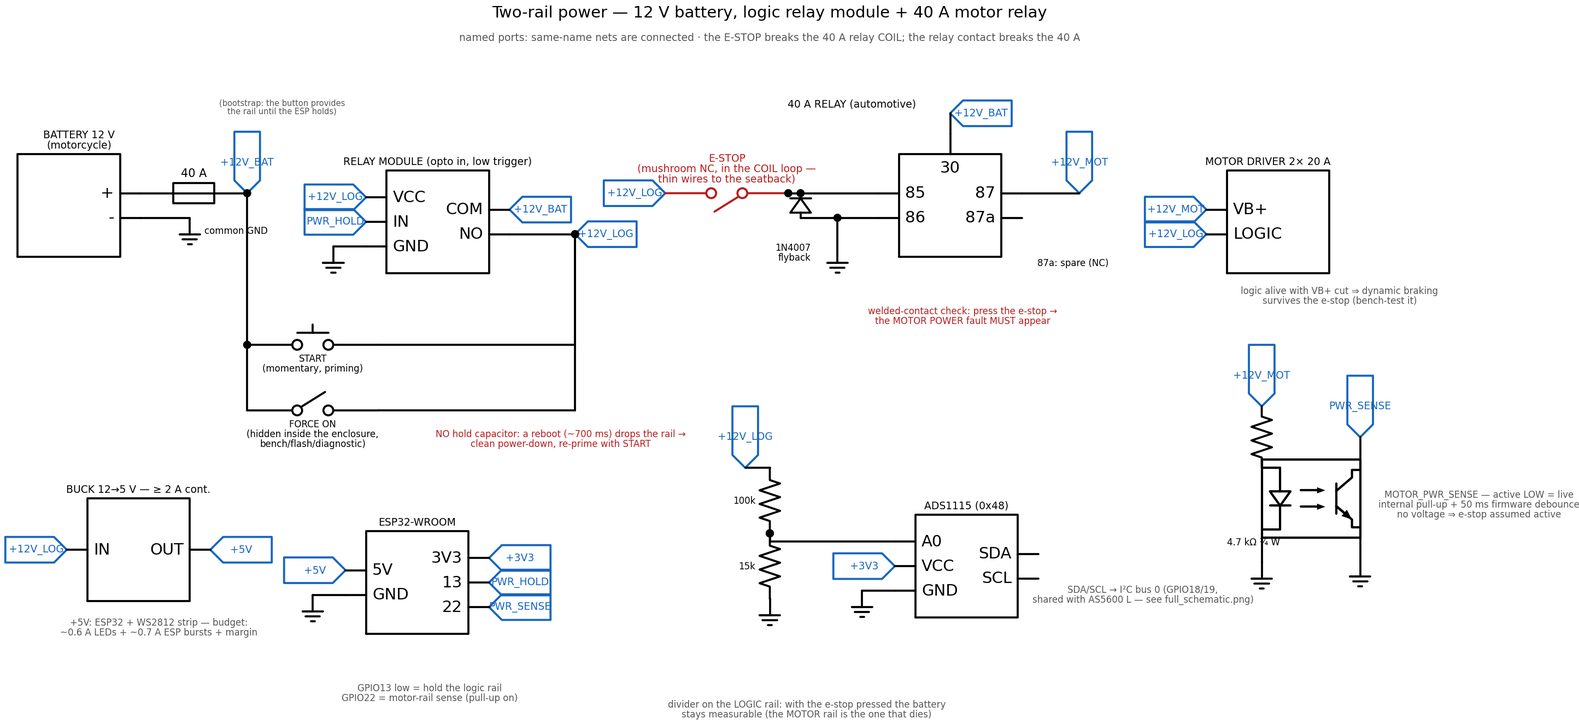
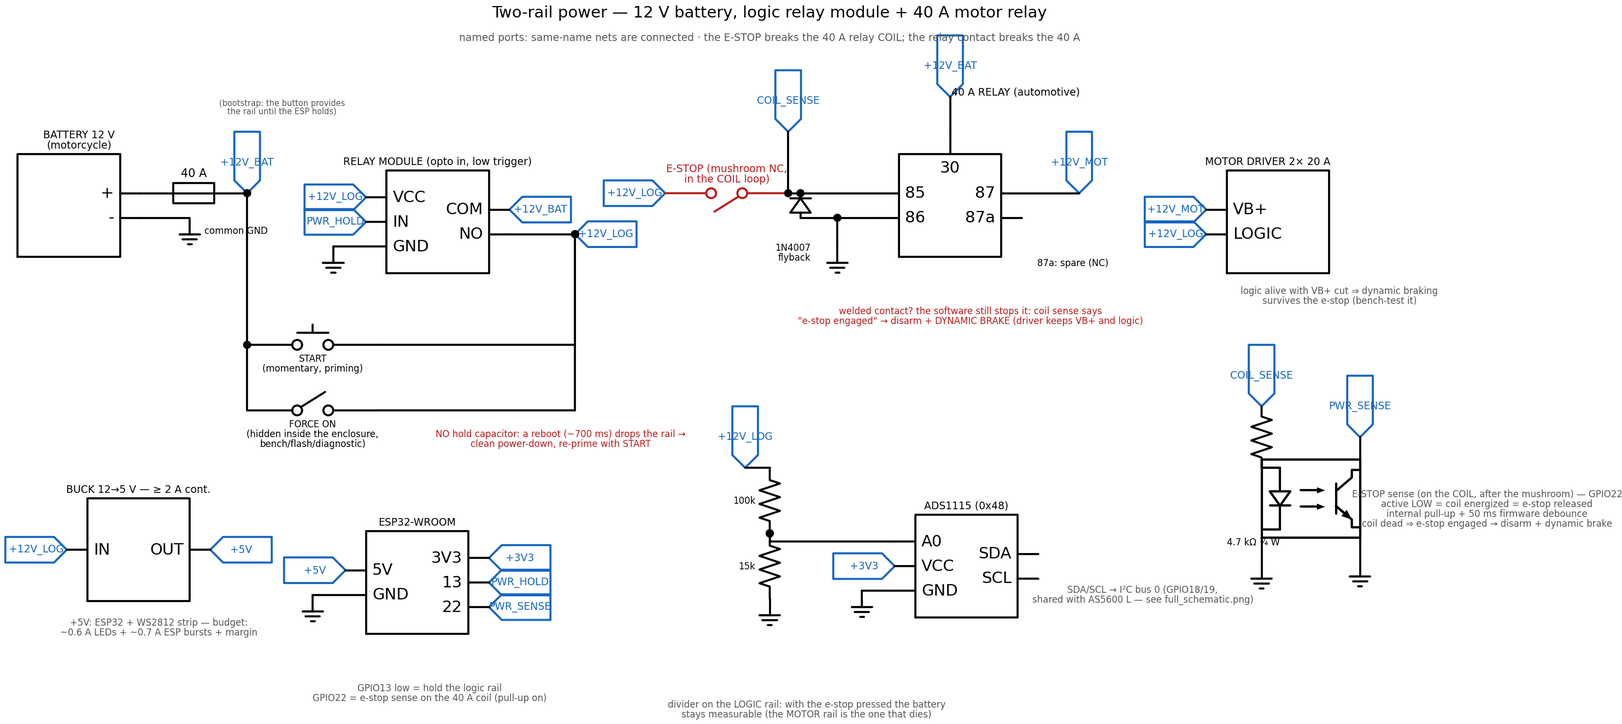
E-stop sense reads the COIL — a welded contact can no longer defeat the stop
'tu penses que la détection devrait plutôt être sur l'alimentation de la
bobine? de cette manière si le relais reste collé au moins le soft peut
détecter le problème et activer le frein dynamique' — yes, and the owner
chose that over the dual-opto variant after seeing the truth table. The
sense opto moves from the relay OUTPUT to the COIL node (pin 85, after the
mushroom): pressing the e-stop is now detected as the COMMAND itself, so the
firmware disarms and dynamic-brakes even when the relay contact is welded
closed — and the brake bites precisely because VB+ survives in that failure.

Stated honestly everywhere it was previously claimed otherwise: with the
coil-side sense, WELDING ITSELF BECOMES UNDETECTABLE (the pre-drive e-stop
test now verifies the sense chain, not the contact), and a relay that fails
to CLOSE is caught by the wheel-stuck net rather than this one. Decision log
carries the trade; the fault text on the page becomes 'Emergency stop
engaged (coil sense)'.

Also asked and now answered in the chapter: does gentler motor drive reduce
welding? No — welding happens at CLOSING, and this design always closes the
relay with the kart disarmed and motors off, so the make-current is the
driver's capacitor inrush regardless of driving style (the fix, if ever
needed, is a pre-charge resistor). Softer mixing reduces contact EROSION
when the e-stop opens the relay under load — up to ~40 A at 12 VDC, inside
[…]

diff --git a/firmware/main/assets/index.html b/firmware/main/assets/index.html
@@ -175,7 +175,7 @@
    <tr><td>27 / 14</td><td>I²C bus 1 (SDA/SCL) — AS5600 right wheel (0x36)</td><td>I/O</td></tr>
    <tr><td>16</td><td>Arming button (START)</td><td>input (pull-up)</td></tr>
    <tr><td>13</td><td>POWER_HOLD (power latch, active low)</td><td>output</td></tr>
-   <tr><td>22</td><td>Motor-power sense (opto on the 40 A relay output; active LOW = live; 50 ms debounce; enable with pwr_sense_en)</td><td>input (pull-up)</td></tr>
+   <tr><td>22</td><td>E-stop sense (opto on the 40 A relay COIL, after the mushroom; active LOW = coil energized; 50 ms debounce; enable with pwr_sense_en)</td><td>input (pull-up)</td></tr>
    <tr><td>4</td><td>WS2812B LED strip (data)</td><td>output</td></tr>
    <tr><td>2</td><td>Status LED (onboard)</td><td>output</td></tr>
    <tr><th colspan="3">External ADS1115 ADC (I²C bus 0, 3.3 V)</th></tr>
@@ -822,7 +822,7 @@ const FAULTS_DESC=[
  {b:10,t:'Stalled gamepad (heartbeat)',          d:'Bluetooth link "connected" but no report received for more than 750 ms: communication lost. Immediate disarm and braking.', grave:true, z:['pad']},
  {b:7, t:'Encoder: erratic reading',             d:'Measured speed physically impossible for the kart. Faulty sensor or magnet. FULL STOP, locked until reboot.', grave:true, z:['wl','wr']},
  {b:11,t:'LEFT encoder: magnet out of range',    d:'The left AS5600 responds but its magnet is out of the sensor field (absent, too far, or too close). Re-center the diametric magnet over the sensor, gap ~0.5–3 mm. Blocks driving only when use_encoders=1.', grave:true, z:['wl'], cond:true},
- {b:13,t:'Motor power absent (e-stop?)',        d:'The 40 A relay is not feeding the motor driver while the logic rail is still alive — normally that means the emergency stop is pressed. Can also be a blown fuse, a released relay, or the sense opto unplugged. Release the e-stop, then rearm with START. Only reported when pwr_sense_en=1.', grave:true, z:['batt']},
+ {b:13,t:'Emergency stop engaged (coil sense)',  d:'The 40 A relay COIL is not energized — the e-stop mushroom is pressed (or the sense wiring is open). Works even with a welded relay contact: the kart disarms and brakes on the command itself. Release the e-stop, then rearm with START. Only reported when pwr_sense_en=1.', grave:true, z:['batt']},
  {b:12,t:'RIGHT encoder: magnet out of range',   d:'The right AS5600 responds but its magnet is out of the sensor field (absent, too far, or too close). Re-center the diametric magnet over the sensor, gap ~0.5–3 mm. Blocks driving only when use_encoders=1.', grave:true, z:['wr'], cond:true},
 ];
 // cond:true faults (encoder sensor) are only GRAVE when the encoders are actually used;

diff --git a/doc/schematics/power_rails.py b/doc/schematics/power_rails.py
@@ -5,8 +5,9 @@
 #     maintenance switch. NO hold capacitor: a reboot drops the rail = clean power-down.
 #   · MOTOR rail: 40 A automotive relay; the E-STOP (NC mushroom) breaks the relay's COIL —
 #     the relay's contact is what breaks the 40 A, so the mushroom only switches ~150 mA and
-#     the power run never detours to the seatback. Welded-contact check: pressing the e-stop
-#     must raise the MOTOR POWER fault (sense opto → GPIO22, active low, 50 ms debounce).
+#     the power run never detours to the seatback. The sense opto reads the COIL (after the
+#     e-stop) into GPIO22: coil dead = e-stop engaged → the firmware disarms and
+#     DYNAMIC-BRAKES — which covers even a welded relay contact (driver keeps VB+ + logic).
 # Also on sheet: the ESP32 (holds PWR_HOLD, reads GPIO22) and the ADS1115 with the
 # 100k/15k divider measuring the battery on the LOGIC rail.
 #   . .venv-schem/bin/activate && python doc/schematics/power_rails.py
@@ -90,17 +91,19 @@ with schemdraw.Drawing(file='doc/schematics/power_rails.png', dpi=150, show=Fals
                              elm.IcPin(name='30', side='top'),
                              elm.IcPin(name='87', side='right', slot='2/2'),
                              elm.IcPin(name='87a', side='right', slot='1/2')],
-                       w=3.2, h=2.6, plblsize=10).label('40 A RELAY (automotive)', loc='top', fontsize=9, ofst=(-2.4, 0.6))
+                       w=3.2, h=2.6, plblsize=10).label('40 A RELAY (automotive)', loc='top', fontsize=9, ofst=(1.6, 0.9))
                 .right().anchor('center').at((13.0, 11.0)))
-    d += elm.Line().up().at(P(rly, '30')).length(0.5)
-    flag(d, d.here, '+12V_BAT', 'right')
+    d += elm.Line().up().at(P(rly, '30')).length(0.9)
+    flag(d, d.here, '+12V_BAT', 'up')
     # E-STOP breaks the COIL: the mushroom switches ~150 mA on thin wires; the relay's
     # CONTACT is what breaks the 40 A. (No hold capacitor anywhere ⇒ drop-out is the relay's
     # own ~10-20 ms.)
     d += elm.Line().left().at(P(rly, '85')).length(2.2)
     n85 = d.here
     d += elm.Dot()
-    d += elm.Switch().left().at(n85).label('E-STOP\n(mushroom NC, in the COIL loop —\nthin wires to the seatback)',
+    d += elm.Line().up().at(n85).length(1.5)
+    flag(d, d.here, 'COIL_SENSE', 'up')
+    d += elm.Switch().left().at(n85).label('E-STOP (mushroom NC,\nin the COIL loop)',
                                            loc='top', fontsize=9).length(3.0).color(HL)
     flag(d, d.here, '+12V_LOG', 'left')
     d += elm.Line().left().at(P(rly, '86')).length(1.0)
@@ -113,23 +116,23 @@ with schemdraw.Drawing(file='doc/schematics/power_rails.png', dpi=150, show=Fals
     d += elm.Line().left().at(n86).length(0.9)
     d += elm.Diode().up().toy(n85[1]).label('1N4007\nflyback', fontsize=8, ofst=(-1.15, -0.5))
     d += elm.Dot()
-    d += elm.Label().label('welded-contact check: press the e-stop →\nthe MOTOR POWER fault MUST appear',
-                           fontsize=8, color=HL).at((13.4, 8.2))
+    d += elm.Label().label('welded contact? the software still stops it: coil sense says\n"e-stop engaged" → disarm + DYNAMIC BRAKE (driver keeps VB+ and logic)',
+                           fontsize=8, color=HL).at((13.6, 8.2))
     # 87 → motor rail (the CONTACT is what breaks the 40 A)
     d += elm.Line().right().at(P(rly, '87')).length(1.4)
     flag(d, d.here, '+12V_MOT', 'up')
     d += elm.Label().label('87a: spare (NC)', fontsize=8).at((15.9, 9.5))
 
-    # ───────── Sense opto: is the motor rail actually live? ─────────
+    # ───────── Sense opto: is the e-stop engaged? (reads the COIL, after the mushroom) ─────────
     opto = d.add(elm.Optocoupler(box=True).right().anchor('anode').at((20.6, 4.6)))
     d += elm.Resistor().up().at(opto.anode).label('4.7 kΩ ¼ W', fontsize=8, loc='left', ofst=(-1.7, 0.2)).length(1.5)
-    flag(d, d.here, '+12V_MOT', 'up')
+    flag(d, d.here, 'COIL_SENSE', 'up')
     d += elm.Line().down().at(opto.cathode).length(0.8)
     d += elm.Ground()
     d += elm.Line().up().at(opto.collector).length(0.8)
     flag(d, d.here, 'PWR_SENSE', 'up')
-    d += elm.Label().label('MOTOR_PWR_SENSE — active LOW = live\ninternal pull-up + 50 ms firmware debounce\nno voltage ⇒ e-stop assumed active',
-                           fontsize=8, color='#555').at((26.0, 3.6))
+    d += elm.Label().label('E-STOP sense (on the COIL, after the mushroom) — GPIO22\nactive LOW = coil energized = e-stop released\ninternal pull-up + 50 ms firmware debounce\ncoil dead ⇒ e-stop engaged → disarm + dynamic brake',
+                           fontsize=8, color='#555').at((26.2, 3.5))
     d += elm.Line().down().at(opto.emitter).length(0.8)
     d += elm.Ground()
 
@@ -165,7 +168,7 @@ with schemdraw.Drawing(file='doc/schematics/power_rails.png', dpi=150, show=Fals
     flag(d, P(esp, '3V3'), '+3V3', 'right')
     flag(d, P(esp, '13'), 'PWR_HOLD', 'right')
     flag(d, P(esp, '22'), 'PWR_SENSE', 'right')
-    d += elm.Label().label('GPIO13 low = hold the logic rail\nGPIO22 = motor-rail sense (pull-up on)',
+    d += elm.Label().label('GPIO13 low = hold the logic rail\nGPIO22 = e-stop sense on the 40 A coil (pull-up on)',
                            fontsize=8, color='#555').at((0.4, -0.8))
 
     # ───────── ADS1115 + divider: battery voltage on the LOGIC rail ─────────

diff --git a/firmware/main/pinout.hpp b/firmware/main/pinout.hpp
@@ -50,11 +50,12 @@ constexpr gpio_num_t WS2812 = GPIO_NUM_4;   // status strip
 // Active levels
 constexpr int BTN_ACTIVE = 0;   // button pressed = low level
 
-// Motor-power sense: opto output reporting whether the 40 A relay is actually live, so the
-// firmware can tell "emergency stop pressed" from "all well" now that the e-stop only cuts
-// the MOTOR rail and leaves the ESP running. ACTIVE LOW — opto conducting = motor power
-// LIVE — so a broken/unwired input rests at the pull-up, reads "dead", and errs toward
-// refusing to drive.
+// E-stop sense: opto reading the 40 A relay's COIL (pin 85, AFTER the mushroom). Coil dead
+// = e-stop engaged (or logic rail down) → blocking fault, disarm, dynamic brake. Sensing
+// the COIL rather than the relay output means a WELDED contact cannot defeat the e-stop:
+// the firmware still sees the command and brakes (it keeps VB+ and logic to do it).
+// ACTIVE LOW — opto conducting = coil energized = e-stop released — so a broken/unwired
+// input rests at the pull-up, reads "engaged", and errs toward refusing to drive.
 // GPIO22, NOT one of the input-only 34-39: those have no internal pull hardware (the first
 // pick, 34, silently ignored the pull-up request and floated when unwired). 22 gives the
 // INTERNAL pull-up (~45 kΩ) — no external resistor needed. That pull is weak and the wire

diff --git a/firmware/main/config_params.cpp b/firmware/main/config_params.cpp
@@ -120,7 +120,7 @@ extern constexpr ParamDesc PARAMS[] =
      "Minutes DISARMED before the kart powers itself down, so a forgotten kart does not flatten its battery. Arming restarts the countdown, which the Dashboard shows. 0 = never. Note: adjusting settings from this page does NOT restart it — only arming does.",
      PType::Int,   {.i = 0}, {.i = 10}, {.i = 120}, {.i = &KartConfig::idle_off_min}},
     {"pwr_sense_en",    "Motor-power sense (0/1)", "Behavior",
-     "1 = the opto that reports whether the 40 A motor relay is live is wired: losing motor power (emergency stop pressed) becomes a blocking fault instead of the kart silently commanding dead motors. 0 = ignore that input entirely (bench, or opto not fitted yet).",
+     "1 = the opto on the 40 A relay COIL (after the e-stop) is wired: pressing the emergency stop becomes a blocking fault with immediate disarm and braking — even if the relay contact is welded closed. 0 = ignore that input entirely (bench, or opto not fitted yet).",
      PType::Bool,  {.i = 0}, {.i = 0}, {.i = 1}, {.i = &KartConfig::pwr_sense_en}},
     // (No allow_reverse: reverse is ALWAYS permitted, held by its own limit rev_speed_ms.)
     // (No motor-output inversion: swapping the two motor leads does that in hardware.)

diff --git a/firmware/main/hardware.cpp b/firmware/main/hardware.cpp
@@ -459,10 +459,10 @@ bool board::btnStart()
     return m_db_start.state;
 }
 
-// Motor rail live = opto conducting = pin pulled LOW. An unwired or broken input rises to
-// the internal pull-up and reads "dead", which is the safe way round. RAW level: the
-// debounce lives in the controller core (hw::PWR_SENSE_DEBOUNCE_TICKS), where the sim can
-// test it. Only consulted when pwr_sense_en = 1, so a bench without the opto is unaffected.
+// 40 A relay COIL energized (= e-stop released) = opto conducting = pin pulled LOW. An
+// unwired or broken input rises to the internal pull-up and reads "engaged", the safe way
+// round. RAW level: the debounce lives in the controller core (hw::PWR_SENSE_DEBOUNCE_TICKS),
+// where the sim can test it. Only consulted when pwr_sense_en = 1 (bench unaffected).
 bool board::motorPowerLive()
 {
     return 0 == gpio_get_level(pins::MOTOR_PWR_SENSE);

diff --git a/README.md b/README.md
@@ -425,7 +425,7 @@ The scale (center + half-amplitude per axis) is **persisted in NVS** (namespace 
 
 ### Electrical safety
 
-- **Emergency stop** easily accessible, **in the 40 A relay's coil loop**: pressing it de-energises the coil and the **relay contact breaks the 40 A** (~10-20 ms; with no hold capacitor, nothing delays it). The mushroom itself only switches ~150 mA on signal-gauge wires — no 40 A detour to the seatback, any decent NC mushroom qualifies. The **logic rail stays up**: the firmware sees `MOTOR POWER` dead, disarms, names the fault on the page, and releasing the button never resumes drive on its own. ⚠ Residual risk: a **welded relay contact** ignores the coil — the pre-drive test (press e-stop, the MOTOR POWER fault must appear) checks exactly that. (In addition, the gamepad's **button B** triggers immediate braking on the firmware side.)
+- **Emergency stop** easily accessible, **in the 40 A relay's coil loop**: pressing it de-energises the coil and the **relay contact breaks the 40 A** (~10-20 ms; with no hold capacitor, nothing delays it). The mushroom itself only switches ~150 mA on signal-gauge wires — no 40 A detour to the seatback, any decent NC mushroom qualifies. The **logic rail stays up**, and the sense opto reads the **coil** (after the mushroom): the firmware sees the e-stop the instant it is pressed, disarms, **dynamic-brakes** and names the fault — **even if the relay contact is welded closed** (the driver still has VB+ and logic, so the brake actually works). The trade: welding itself becomes undetectable; the pre-drive e-stop test verifies the sense chain. (In addition, the gamepad's **button B** triggers immediate braking on the firmware side.)
 - **Start via momentary button** (primes the latch); **fuse/pack**, wiring ≥ the 2 motors' current.
 - **Battery: one 12 V motorcycle battery** (lead-acid — no BMS of its own). Deep discharge protection = **the firmware LVC** (thresholds hard-coded per detected type: 12 V → cut 10.5 V, 24 V → cut 21 V) + the 40 A fuse.
 - **One 12 V pack, no paralleling** (this phase): it carries the whole ~40 A, so its internal resistance sets the sag under load — a motorcycle battery at ~0.05 Ω dips ~2 V at full throttle, which is why the LVC judges a smoothed voltage. ⚠ **Never put packs in series** unless you also change the divider (24 V needs 100 k/12 k).
@@ -507,7 +507,7 @@ flowchart LR
 
 **Key wiring points:**
 - **Common ground** ESP32 ↔ driver ↔ ADS1115 ↔ I²C sensors: essential.
-- **Two rails**: the small opto relay module holds the **logic rail** (ESP32 + driver logic + divider), the **40 A relay** feeds the motors through the **e-stop in its main path**. GPIO22 reads the opto that watches motor power (active low: a broken wire reads "dead").
+- **Two rails**: the small opto relay module holds the **logic rail** (ESP32 + driver logic + divider), the **40 A relay** feeds the motors through the **e-stop in its main path**. GPIO22 reads the opto on the relay COIL, after the e-stop (active low: a broken wire reads "e-stop engaged", the safe side).
 - **Brake by default**: at a stop, with no forward command, or if the gamepad disconnects, the firmware brakes.
 - **Power ~10 AWG** (crimped lugs); **signals thin wire**. **40 A fuse** on the single pack.
 - ⚠ **Driver polarity (VB+/VB-)**: no reverse protection → **double-check**.
@@ -527,7 +527,7 @@ flowchart LR
         SR -->|"coil"| BR
         ESTOP["🛑 E-STOP (NC, in the coil loop)"] --> BR
         BR --> MPWR(["+12 V motors"])
-        BR -->|"opto sense"| SENSE(["GPIO22"])
+        ESTOP -->|"coil sense (after the mushroom)"| SENSE(["GPIO22"])
         RAIL --> BUCK["Buck 12→5 V"] --> V5(["+5 V"])
     end
 
@@ -652,9 +652,12 @@ flowchart LR
 > **The emergency stop only needs to cut the motor relay.** That is the point of splitting the
 > rails: the logic survives, so the kart can *say* what happened instead of going dark. A
 > **feedback opto** from the 40 A relay's output tells the firmware whether motor power is
-> actually live (`pins::MOTOR_PWR_SENSE`, GPIO22, active low so a broken wire reads "dead").
-> Wiring: the opto's input LED across the relay's **output** (87/NO, i.e. downstream of the
-> e-stop) through its series resistor; output transistor between **GPIO22** and GND. The pin
+> actually live (`pins::MOTOR_PWR_SENSE`, GPIO22, active low so a broken wire reads "e-stop engaged").
+> Wiring: the opto's input LED from the **coil node (pin 85, after the e-stop)** through its
+> 4.7 kΩ resistor to ground; output transistor between **GPIO22** and GND. Sensing the COIL
+> rather than the output means a **welded contact cannot defeat the e-stop**: the firmware
+> sees the command and dynamic-brakes (it keeps VB+ and logic to do it). The cost — welding
+> becomes undetectable — was accepted over a dual-opto variant. The pin
 > idles on the ESP32's **internal pull-up** (that is why it is GPIO22 and not one of the
 > pull-less input-only 34-39), and the firmware **debounces 50 ms** so a spike coupled from
 > the neighbouring 40 A cabling can never fake an emergency stop.
@@ -825,7 +828,7 @@ flowchart TB
 - ⚠ **Chain/sprocket guard**: no fingers/laces/clothing caught.
 - ⚠ **Rounded corners**, sanding against splinters, bolt heads countersunk/capped on the child side.
 - ⚠ **Lap belt** anchored to the frame; **helmet mandatory**; **footrest**.
-- ⚠ **Central hardware emergency stop**: at the **top of the seatback, centered**, **easily reachable by both kids** (and by an adult behind); it **opens the 40 A motor relay** (coil-loop break, ~10-20 ms) — the primary removal of drive power, complementing the **software** emergency stop on the gamepad (button **B**). Its weak spot is a **welded relay contact**, so the pre-drive check is non-negotiable: press it, the `MOTOR POWER` fault must appear. The logic rail stays up so the kart reports the fault; whether the driver still *brakes* dynamically with its 40 A supply cut depends on the driver board keeping gate drive — **test it on the bench** (spin a wheel with the motor relay open). Check that the button is neither hidden nor blocked, and that the kids know how to use it.
+- ⚠ **Central hardware emergency stop**: at the **top of the seatback, centered**, **easily reachable by both kids** (and by an adult behind); it **opens the 40 A motor relay** (coil-loop break, ~10-20 ms) — the primary removal of drive power, complementing the **software** emergency stop on the gamepad (button **B**). A **welded relay contact** is covered in software: the coil-side sense still sees the e-stop and the firmware disarms + dynamic-brakes (VB+ being present is what makes that brake bite). The logic rail stays up so the kart reports the fault; whether the driver still *brakes* dynamically with its 40 A supply cut depends on the driver board keeping gate drive — **test it on the bench** (spin a wheel with the motor relay open). Check that the button is neither hidden nor blocked, and that the kids know how to use it.
 - ⚠ **Gamepad**: calibrated before each session; check that **button B (software emergency stop)** brakes, and that a **disconnect** (gamepad off / out of range) triggers braking.
 - ⚠ **Inspection before each use**: motor mounts, chain tension + lubrication + sprocket tightness, rear caster wheel, **central hardware e-stop** + gamepad e-stop, tech bay mounting (batteries at the front), electric brake test.
 - ⚠ **Flat ground, supervised**, away from traffic and slopes.
@@ -915,7 +918,7 @@ ESP-IDF 6.1 (C++) code in [`firmware/`](firmware/) — details in [`firmware/REA
 Points to **address / validate before any real use**.
 
 **Safety & access**
-- **The central hardware emergency stop removes drive power by opening the 40 A relay** (mushroom in the relay's **coil loop**, at the top of the seatback, within reach of both kids; ~10-20 ms). Its blind spot is a **welded relay contact** — which is why the pre-drive e-stop test (fault must appear) exists. The logic rail deliberately survives — the kart disarms, reports `MOTOR POWER`, and requires a re-arm. The rest (gamepad emergency stop, LVC, disarm, watchdog, braking on disconnect) is software; the ESP can also cut itself via POWER_HOLD.
+- **The central hardware emergency stop removes drive power by opening the 40 A relay** (mushroom in the relay's **coil loop**, at the top of the seatback, within reach of both kids; ~10-20 ms). A **welded relay contact** no longer defeats it: the sense reads the coil, so the firmware still disarms and dynamic-brakes. The logic rail deliberately survives — the kart disarms, reports `MOTOR POWER`, and requires a re-arm. The rest (gamepad emergency stop, LVC, disarm, watchdog, braking on disconnect) is software; the ESP can also cut itself via POWER_HOLD.
 - **Unauthenticated web — by choice**: only the AP password protects access (changing it is still recommended). **Gamepad calibration** is locked outside the disarmed/stopped state.
 - **Gamepad dependency**: if the gamepad disconnects, the kart **brakes** (safety), but the driver loses directional control until reconnection → drive within Bluetooth range, gamepad charged.
 

diff --git a/doc/electronique.md b/doc/electronique.md
@@ -69,8 +69,15 @@ re-arm. Releasing the mushroom never resumes drive on its own.
   ~10–20 ms — instant to a human. *(This placement was chosen once the capacitor was
   dropped: the old reason to put the mushroom in the 40 A path was precisely that a charged
   capacitor kept the coil alive ~0.9 s against it.)*
-- **Sense opto**: input LED through **4.7 kΩ ¼ W** across the **relay output** (87 / driver
-  VB+ node) → it reads what the driver actually receives. Sizing: R = (V − Vf)/If with
+- **Sense opto — on the COIL, after the mushroom** (owner's decision, 2026-08-03): input
+  LED through **4.7 kΩ ¼ W** from the coil node (85) to ground. Coil dead = e-stop engaged
+  (or logic rail down) → the firmware disarms and **dynamic-brakes**. The point of sensing
+  the coil rather than the relay output: **a welded relay contact no longer defeats the
+  e-stop** — the software sees the command and stops the kart even though VB+ is still
+  there (and braking works all the better for it). The trade, stated plainly: a welded
+  contact becomes **invisible** (the sense can no longer prove the contact opened), and a
+  relay that fails to CLOSE is not seen here either — that case is caught by the
+  wheel-stuck fault (commanded PWM, no rotation, 1 s) and by the obvious symptom. Sizing: R = (V − Vf)/If with
   Vf ≈ 1.2 V gives 2.0–2.9 mA over the whole 10.5–14.8 V battery range (39 mW worst in the
   resistor); the transistor only has to sink the GPIO's internal pull-up (~73 µA), so even
   a minimum-CTR PC817 at the LVC floor keeps a ×9 margin. A ready-made opto module rated
@@ -78,13 +85,18 @@ re-arm. Releasing the mushroom never resumes drive on its own.
   and GND; the pin idles on the ESP32's internal pull-up (that is why it is GPIO22 — the
   input-only 34–39 have no pull hardware) and the firmware debounces 50 ms, so a spike
   coupled from the neighbouring 40 A cabling cannot fake an emergency stop.
-- Contact welding on inrush (closing 40 A onto the driver's bulk capacitors) is the known
-  relay failure mode and it fails ON — and with the e-stop in the coil loop, a welded
-  contact is exactly what the mushroom can no longer cut. The mitigation is the **pre-drive
-  e-stop test, every session**: press the mushroom, the page MUST show the `MOTOR POWER`
-  fault (the sense opto proves the contact actually opened). No fault shown = welded
-  contact = the kart does not drive. If it ever welds, add a pre-charge resistor across
-  the contact.
+- **Contact welding** happens at CLOSING: the contacts bounce for a few ms, and each bounce
+  arcs across whatever inrush is waiting — here, the driver's bulk capacitors. Two facts
+  follow. First, **driving style is irrelevant to welding**: the relay always closes with
+  the kart disarmed and the motors commanded off (boot sequence), so the make-current is
+  the capacitor charge, never the motors — gentler mixing curves protect the CHILD, not
+  the relay. Second, the fix if it ever welds is a **pre-charge resistor** across the
+  contact, not softer throttle. What softer driving DOES reduce is contact **erosion** when
+  the e-stop opens the relay under load (the relay then breaks whatever the motors draw,
+  up to ~40 A at 12 VDC — inside an automotive relay's normal duty). With the coil-side
+  sense, a welded contact is mitigated in software (disarm + dynamic brake, see above)
+  but NOT detected — the pre-drive e-stop test verifies the sense chain, no longer the
+  contact itself.
 
 ### 5 V rail — the ≥ 2 A budget
 
@@ -169,8 +181,8 @@ Work with the battery disconnected; connect it last.
 6. **40 A relay pin 87 → driver VB+** — 10 AWG, short run inside the nose. Driver VB− →
    ground bus (10 AWG). ⚠ **Triple-check VB+/VB− polarity before the battery goes in —
    the driver has no reverse protection.**
-7. **Sense opto**: LED input through **4.7 kΩ ¼ W** across the **relay output / driver VB+
-   node** (+) and ground (12 V-rated modules have it onboard; 3.3/5 V modules get ~1–1.5 kΩ
+7. **Sense opto**: LED input through **4.7 kΩ ¼ W** from the **coil node (relay pin 85,
+   AFTER the e-stop)** to ground (12 V-rated modules have it onboard; 3.3/5 V modules get ~1–1.5 kΩ
    added); output: collector → **GPIO22**, emitter → GND. No external pull-up needed
    (internal).
 8. **Buck**: IN ← +12V_LOG (+ ≥ 470 µF bulk at its input), OUT 5 V → ESP32 5V/VIN, WS2812
@@ -193,9 +205,11 @@ Work with the battery disconnected; connect it last.
    ~1 s — the rail must HOLD.
 3. E-stop released: +12V_MOT present at driver VB+; **page shows no MOTOR POWER fault**
    (with `pwr_sense_en=1`).
-4. **Press the e-stop**: +12V_MOT dead, logic alive, page names the `MOTOR POWER` fault,
-   re-arm required after release. **This is also the welded-contact test — repeat it at
-   every pre-drive inspection** (no fault appearing = the relay contact is stuck closed).
+4. **Press the e-stop**: the page names the `MOTOR POWER` fault (coil sense), re-arm
+   required after release; with a healthy relay, +12V_MOT dies too — verify BOTH at
+   commissioning (fault shown AND driver VB+ actually dead, multimeter). The routine
+   pre-drive test verifies the sense chain; it cannot prove the contact is not welded —
+   that case is covered by the software disarm + dynamic brake.
 5. **The 30-second brake test**: logic up, e-stop pressed, spin a front wheel by hand — if it
    resists, dynamic braking survives the e-stop on this driver; if it spins free, the e-stop
    coasts (acceptable on the flat only — note the result here: ☐ brakes / ☐ coasts).
@@ -212,4 +226,5 @@ Work with the battery disconnected; connect it last.
 | Pre-charge on the 40 A contact | **not fitted, watched** | inrush is modest; welding fails ON and is on the watch list; resistor retrofit documented |
 | Buck | **verify ≥ 2 A or replace (3 A class)** | firm 5 V ≥ 2 A budget (LEDs + ESP bursts) |
 | Divider | **100 k / 15 k confirmed** | matches `hw::VBAT_R_*` and the soldered board; the 27 k row in old tables was a sizing example, now removed |
+| Sense position | **on the COIL (85), not the relay output** | e-stop engaged is detected even with a welded contact → software disarm + dynamic brake; cost: welding becomes undetectable and a fail-open relay is only caught by the wheel-stuck net (owner's call over the dual-opto option) |
 | E-stop position | **in the 40 A relay's COIL loop** | with no hold capacitor there is nothing to delay it (~10-20 ms drop-out); the mushroom switches 150 mA on thin wires instead of 40 A to the seatback and back; residual welded-contact risk covered by the per-session e-stop test via the sense opto |
